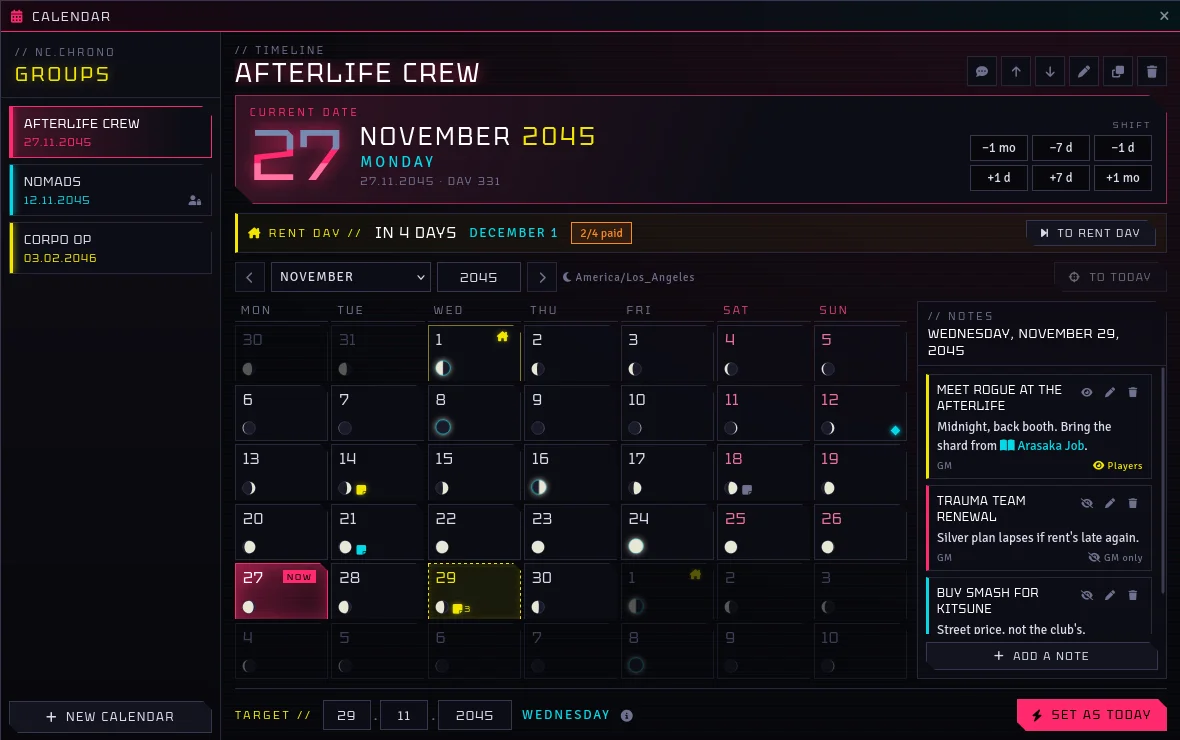
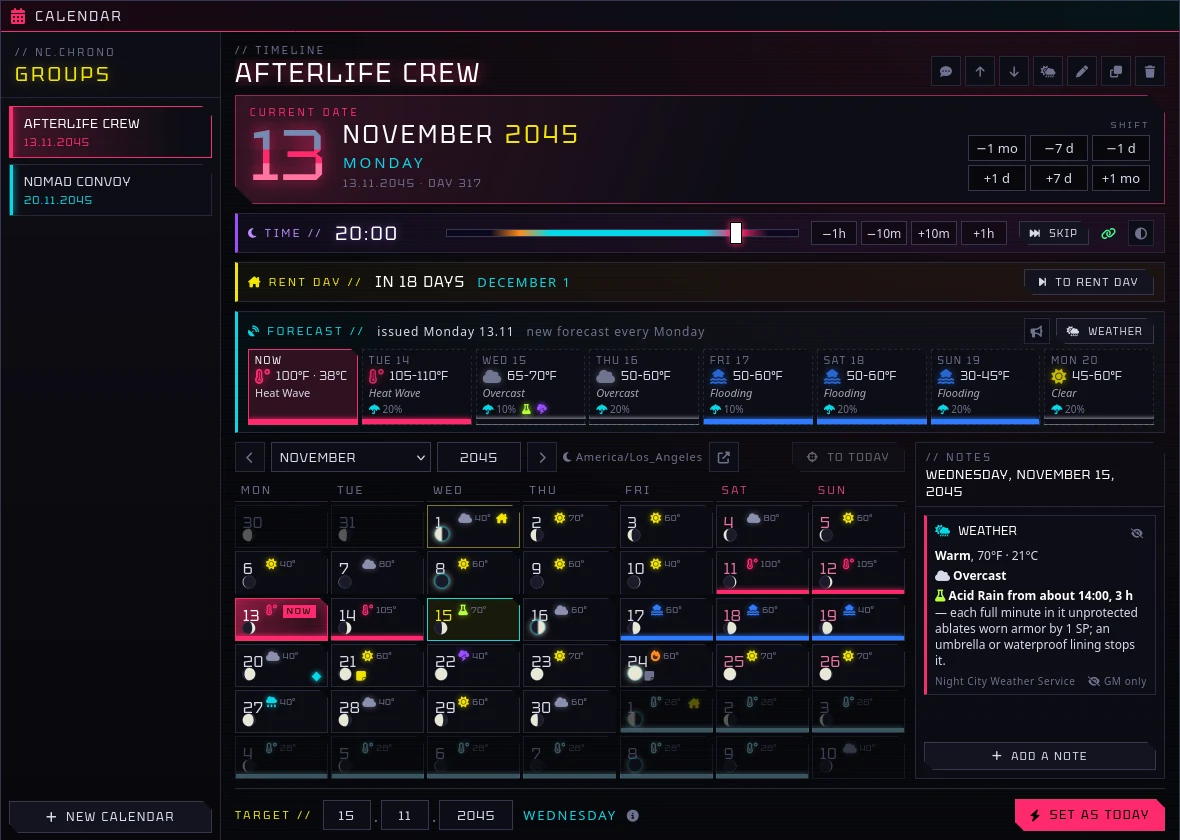
Update README screenshots for 1.4 to 1.8 features
Refresh the calendar screenshot (time strip, forecast, weather, weather
note) and add the lit hub buttons, the popped-out month, Skip time, the
Weather window and a player's forecast view.

diff --git a/README.md b/README.md
@@ -88,6 +88,9 @@ Enable **Neon Hub** and **Monk's Active Tile Triggers** in your world.
   the pointer** in the page settings. Pages built before 1.4.0 need one **Rebuild** to get it.
   Lighting up works from the token layer, like MATT's hover triggers. If a button doesn't light up,
   `game.modules.get("cpr-neon-hub").api.hoverStatus()` in the console lists the lit images loaded.
+
+  ![Hub buttons idle and lit on hover](docs/hub-hover.webp)
+
 - **GM only** buttons are hidden from players and only respond to the GM.
 - Want buttons in exact spots? Set **Button layout** to *Keep tiles where I put them* and rebuild
   once (the tiles unlock), move or resize them on the scene, then rebuild again. Each button is redrawn at its new size.
@@ -236,7 +239,7 @@ active housing, lifestyle package and health plans into the actor's `system.life
 
 ## Calendar
 
-![Calendar with day notes](docs/calendar.webp)
+![Calendar with the time strip, weekly forecast, weather on each day and the GM's weather note](docs/calendar.webp)
 
 Open it from the calendar button in the left toolbar (Token Controls), a hub button set to *Open
 calendar*, or the Lifestyle window. It works with no scene on the canvas.
@@ -246,6 +249,8 @@ a window of its own, leaving the calendar window to the date, time, rent, foreca
 Popped out, days have room to name their weather. Both windows stay in step: pick a day in the
 month to read its notes in the calendar, and the GM can still double-click a day to set the date.
 Close the month window (or **Back into the calendar**) to dock it again; it remembers your choice.
+
+![The calendar with its month popped out into its own window](docs/calendar-popout.webp)
 
 **Calendars per group.** The GM makes a calendar for each group of edgerunners, with its own
 name, color, date, rent day and players. Players see the calendars open to them (no players ticked
@@ -323,6 +328,9 @@ world clock that SmallTime shows:
   Sun times come from SmallTime's sunrise and sunset; the moon rises with the sun when new and at
   sunset when full, about 50 minutes later each day, using its real phase. **Call it off** closes
   it for everyone. Up to 24 hours at a time.
+
+  ![Skip time winding through sunset, with the group's votes](docs/skip-time.webp)
+
 - **SmallTime's moon** is set to the real Moon's phase on the date of the first calendar that moves
   with the clock, which also drives SmallTime's moonlight darkness. Turn off *SmallTime shows the
   real Moon* to set it by hand in SmallTime.
@@ -330,6 +338,8 @@ world clock that SmallTime shows:
 **Night City weather.** Weather from R. Talsorian's free **Night City Weather** for Cyberpunk RED.
 Neon Hub uses its dice tables; the rules summaries are Neon Hub's own short versions, with core
 rulebook pages.
+
+![The Weather window: planning, the weekly forecast and which weather can happen](docs/weather.webp)
 
 - **Planning (GM).** The cloud button on a calendar (or **Weather** on its forecast strip) plans
   days ahead from the calendar's date. Each day rolls a temperature and a sky (Clear, Overcast,
@@ -352,6 +362,8 @@ rulebook pages.
   distance, and short strange weather shows only as a chance ("Acid Rain possible: 30%") that can
   be missed or a false alarm. Obvious multi-day storms are called; blackouts never are. Players
   find out for sure on the day: the forecast strip shows today's real weather.
+
+![A player's calendar: past days as they were, the forecast dashed, nothing further ahead](docs/calendar-player.webp)
 
 **Settings.** *Calendar time zone* and *SmallTime shows the real Moon* (world). *First day of the
 week*, *Show moon phases* and *Notify on date change* (per player).
